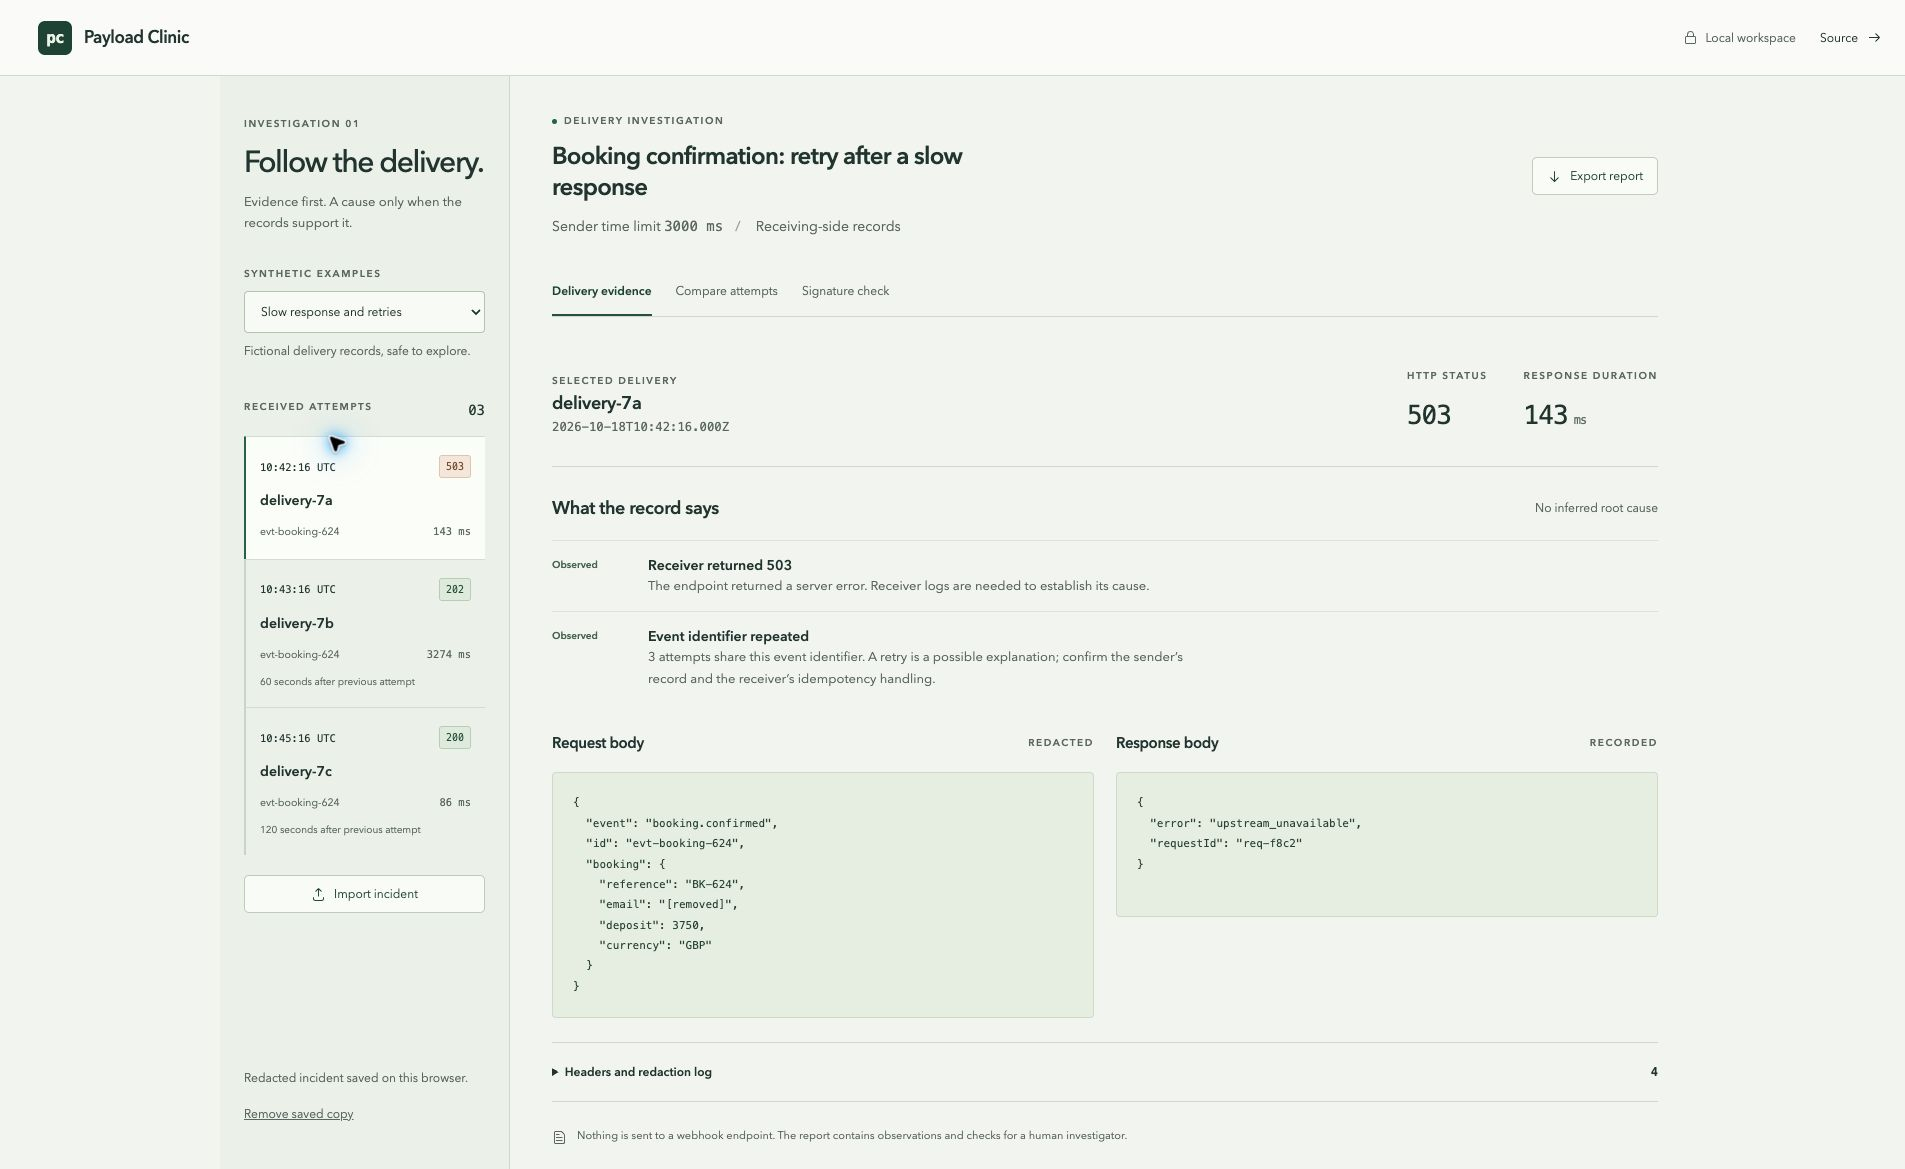
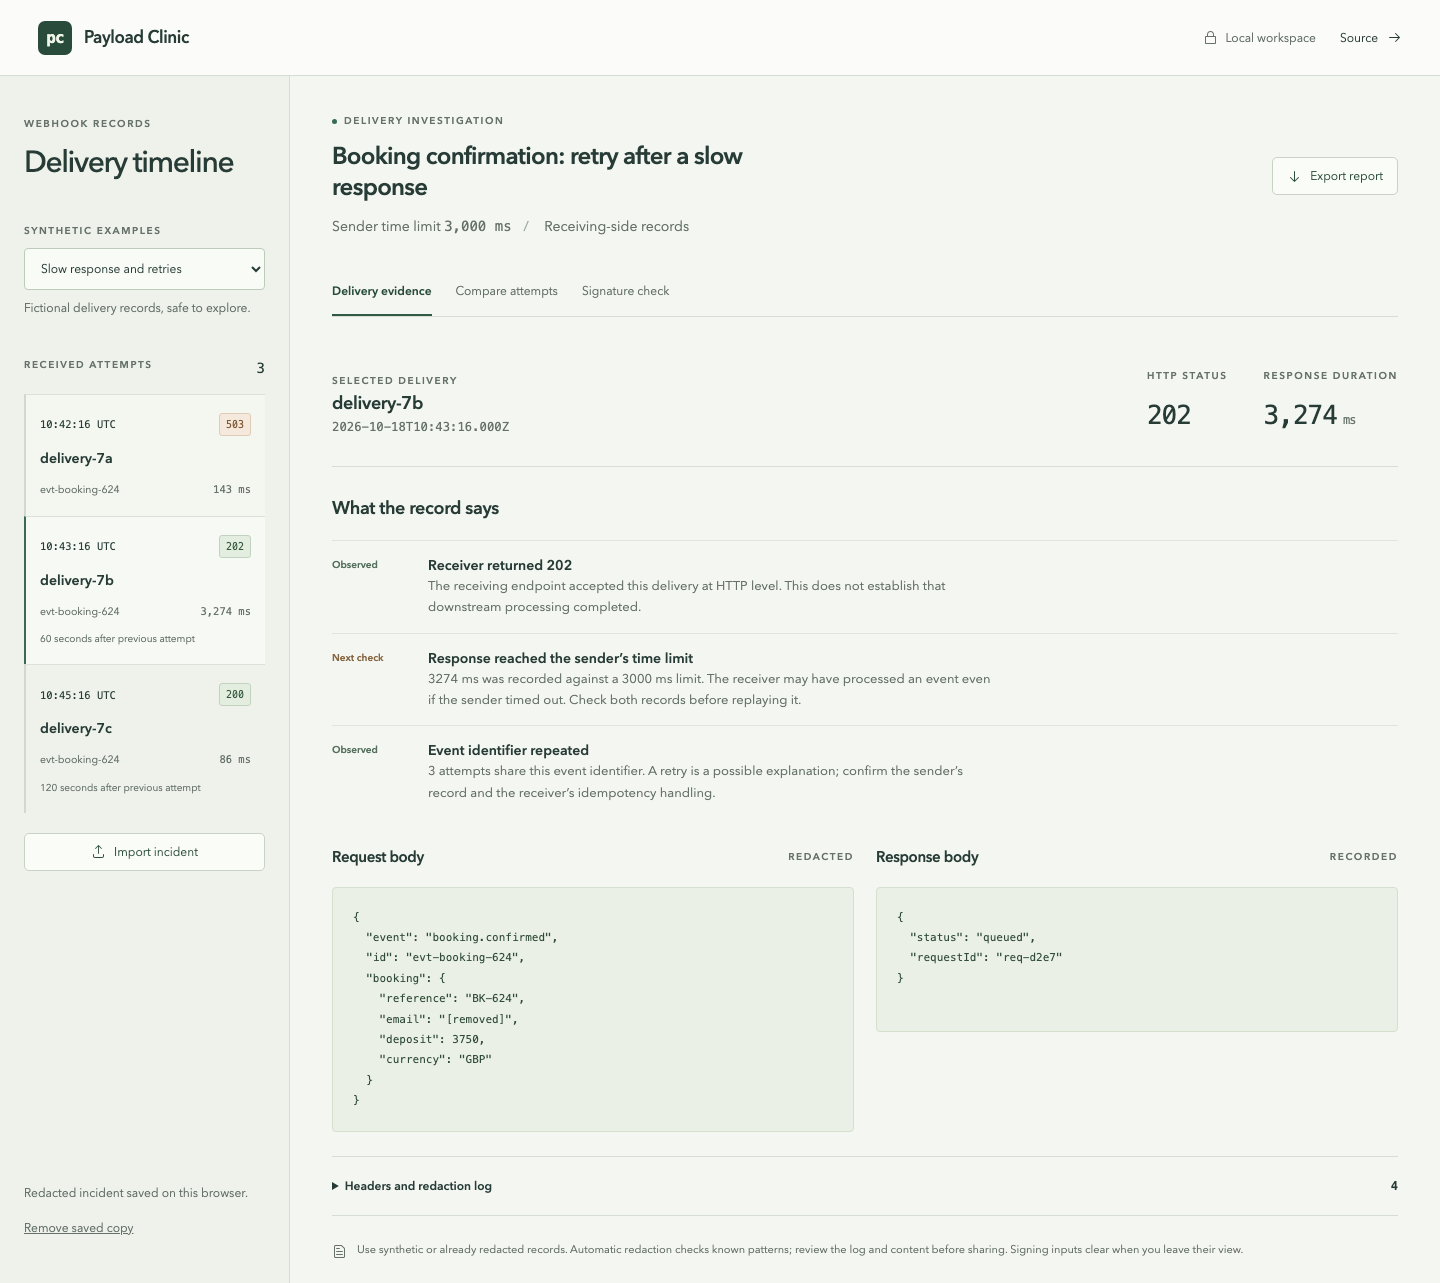
Retake clean desktop screenshots of all three investigation views

diff --git a/tests/browser/workspace.spec.ts b/tests/browser/workspace.spec.ts
@@ -174,3 +174,45 @@ test("expired signatures show a rejected timestamp before the matching digest", 
     "Digest comparison: matches",
   );
 });
+
+test("capture the three documented views at desktop width", async ({
+  page,
+}) => {
+  test.skip(
+    !process.env.CAPTURE_DOCS,
+    "Documentation capture is requested separately.",
+  );
+  await page.setViewportSize({ width: 1440, height: 1000 });
+  await page.goto("./");
+  await page.getByRole("button", { name: /delivery-7b/ }).click();
+  await page
+    .getByRole("heading", { name: "Delivery timeline", exact: true })
+    .click();
+  await page.mouse.move(0, 0);
+  await page.screenshot({
+    path: "docs/screenshots/evidence.png",
+    fullPage: true,
+  });
+  await page.getByRole("tab", { name: "Compare attempts" }).click();
+  await page.getByLabel("Second attempt").selectOption("2");
+  await page.mouse.move(0, 0);
+  await page.screenshot({
+    path: "docs/screenshots/comparison.png",
+    fullPage: true,
+  });
+  await page.getByRole("tab", { name: "Signature check" }).click();
+  await page
+    .getByRole("button", { name: "Load signed sample", exact: true })
+    .click();
+  await page
+    .getByRole("button", { name: "Verify signature", exact: true })
+    .click();
+  await expect(
+    page.getByRole("heading", { name: "Signature matches", exact: true }),
+  ).toBeVisible();
+  await page.mouse.move(0, 0);
+  await page.screenshot({
+    path: "docs/screenshots/signature.png",
+    fullPage: true,
+  });
+});

diff --git a/README.md b/README.md
@@ -6,6 +6,10 @@ Payload Clinic helps small software support teams explain failed webhook deliver
 
 ![Receiving-side delivery evidence](docs/screenshots/evidence.png)
 
+![Comparison of the slow response and retry](docs/screenshots/comparison.png)
+
+![A valid synthetic signature and timestamp](docs/screenshots/signature.png)
+
 ## Try a short investigation
 
 1. Open **Slow response and retries**. The first receiving-side record contains a 503 response.
@@ -92,7 +96,7 @@ The test suite covers chronological ordering, status interpretation, sender time
 
 Browser tests exercise a complete investigation and export, invalid and valid imports, redacted persistence and the full redaction log across reload, transient signing inputs, an expired timestamp, a 390 px layout, and keyboard focus containment and restoration. CI installs dependencies, runs the unit tests, builds the app and runs Chromium tests. Publishing depends on that verification job succeeding for the same commit.
 
-Screenshots show the application running with synthetic records. They are saved in `docs/screenshots/`.
+Screenshots show the application running with synthetic records at 1440 px. Run `CAPTURE_DOCS=1 npm run test:browser -- --grep "capture the three"` to refresh them in `docs/screenshots/`.
 
 ## Design and implementation
 
